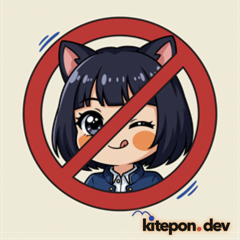
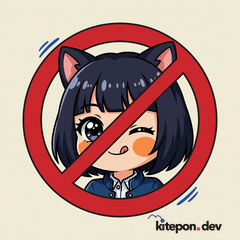
Nope公開リポジトリをv2.0.1へ整備

Changed region(s): [[0.0875, 0.0583, 0.9625, 0.9917]]

diff --git a/src/content-search.js b/src/content-search.js
@@ -26,7 +26,7 @@ const CB_SEARCH = (() => {
   const MASCOT_IMAGE_PATH = 'assets/mascot-blocked.png';
   const MASCOT_HOVER_IMAGE_PATH = 'assets/mascot-blocked-hover.png';
   const MASCOT_DISPLAY_SIZE = 120;
-  const BRAND_URL = 'https://kitepon.dev/';
+  const BRAND_URL = 'https://kitepon.dev/?utm_source=nope&utm_medium=chrome_extension&utm_campaign=nope-brand-link&utm_content=blocked-placeholder';
 
   // kitepon.dev ブランド正典（color-system.md）の適用値。
   const COLOR_ORANGE = '#ef8d32'; // Discovery Orange: 枠・識別色

diff --git a/src/content-name.js b/src/content-name.js
@@ -17,7 +17,7 @@ const CB_NAME = (() => {
   const MASCOT_IMAGE_PATH = 'assets/mascot-blocked.png';
   const MASCOT_HOVER_IMAGE_PATH = 'assets/mascot-blocked-hover.png';
   const MASCOT_DISPLAY_SIZE = 64;
-  const BRAND_URL = 'https://kitepon.dev/';
+  const BRAND_URL = 'https://kitepon.dev/?utm_source=nope&utm_medium=chrome_extension&utm_campaign=nope-brand-link&utm_content=blocked-placeholder';
 
   // kitepon.dev ブランド正典（color-system.md）。content-search.js と同値を維持すること。
   const COLOR_ORANGE = '#ef8d32';

diff --git a/popup/popup.html b/popup/popup.html
@@ -38,7 +38,7 @@
   <button type="button" id="clear-cache">キャッシュクリア</button>
 
   <footer class="cb-footer">
-    <a href="https://kitepon.dev" target="_blank" rel="noopener" class="cb-footer-link">kitepon.dev</a>
+    <a href="https://kitepon.dev/?utm_source=nope&amp;utm_medium=chrome_extension&amp;utm_campaign=nope-brand-link&amp;utm_content=popup-footer" target="_blank" rel="noopener" class="cb-footer-link">kitepon.dev</a>
   </footer>
 
   <script src="../src/storage.js"></script>

diff --git a/README.md b/README.md
@@ -1,18 +1,40 @@
 # Nope — 見たくないもの見せません
 
-指定した発信元やキーワードのコンテンツを、閲覧中の Web ページから非表示にする Chrome 拡張機能（Manifest V3）です。ショップ・出品者・チャンネル・出版社をサイト別にブロックでき、Yahoo ニュースと Yahoo! JAPAN ではキーワードでも絞り込めます。
+![Nopeの猫マスコットとkitepon.dev endorsement](assets/brand/nope-github-hero.png)
 
-## 機能
+## 5秒でわかる
 
-- **発信元をブロック**: 対応ページのショップ・出品者・チャンネル・出版社を登録すると、その発信元のカードを自動的に隠します。AliExpress の商品ページでは「このストアをブロック」ボタンから登録できます。
-- **キーワードをブロック**: Yahoo ニュースと Yahoo! JAPAN の記事タイトルを、登録したキーワードの部分一致で非表示にできます。
-- **その場で反映**: ブロックリストを変更すると、ページを再読み込みせずに再判定します。
-- **表示方法を選択**: ブロックしたカードをプレースホルダーへ置き換えるか、完全に非表示にして詰めるかを選べます。
-- **ポップアップで管理**: ツールバーのアイコンから、サイト別のブロック対象とキーワードの確認・追加・解除、表示方法の切替、解決キャッシュの削除ができます。
+Nopeは、見たくない発信元や言葉を、対応する検索結果・一覧から隠す日本語UIのChrome拡張です。Webサービス側に委ねていた表示を、発信元またはキーワード単位で自分で選び直せます。
 
-## 対応サイト
+## 現在の配布状態
 
-| サイト | 対応ページ | ブロック対象 |
+**v2.0.1は再申請済みで、Chrome Web Storeの審査中です。** Store公開を確認するまでは、installできると見せるリンクを置きません。公開sourceとこのREADMEは今すぐ読めますが、一般利用者向けの主導線はStore公開後に有効化します。
+
+開発者がsourceから確認する場合は、下の「開発・テスト」を使ってください。Load unpackedは開発者向けの確認手順であり、一般利用者向けの導入手順ではありません。
+
+## 30秒の使い方
+
+1. 対応する検索結果・一覧で、見たくない発信元をブロックします。
+2. ブロック済みカードはプレースホルダーに置き換えるか、完全に隠して詰めるかを選べます。
+3. ChromeのツールバーにあるNopeのpopupで、サイト別の発信元、Yahooニュース群のキーワード、表示方法を管理します。
+
+キーワードブロックはYahoo!ニュースとYahoo! JAPANだけに対応します。その他の対応面では発信元単位のブロックです。
+
+## ブロック前後
+
+ブロック前（対象の発信元を解除した表示）:
+
+![AliExpressの検索結果に商品カードが表示されている状態](docs/evidence/r5-smoke-restored.png)
+
+ブロック後（同じ検索面で対象の発信元をNopeのplaceholderへ置換）:
+
+![AliExpressの検索結果で対象の発信元がNopeのplaceholderへ置き換わった状態](docs/evidence/r5-smoke-blocked.png)
+
+発信元の識別ができたカードだけを対象にします。対応サイトのDOM変更や、発信元を解決できないカードは隠しません。
+
+## 対応する7サービス群・8対応面
+
+| サービス群 | 対応面 | ブロック対象 |
 |---|---|---|
 | AliExpress | 検索結果・商品ページ | ストア |
 | 楽天市場 | 検索結果 | 店舗 |
@@ -20,57 +42,29 @@
 | ヤフオク | 検索結果 | 出品者 |
 | Amazon.co.jp | 検索結果 | マーケットプレイス販売者 |
 | YouTube | 検索結果 | チャンネル |
-| Yahoo ニュース / Yahoo! JAPAN | ニュース一覧・トップページのニュースフィード | 出版社・キーワード |
+| Yahooニュース群 | Yahoo!ニュース・Yahoo! JAPAN | 出版社・キーワード |
 
-## スクリーンショット
+NopeはChrome向け、日本語UI、無料の拡張です。すべてのWebサイトやすべての表示面には対応しません。
 
-商品ページのブロックボタン（クリックでブロック、解除も可能）
+## プライバシー・権限・制限
 
-![商品ページのブロックボタン](docs/evidence/t7-item-blocked.png)
+- API権限は`storage`のみです。対応面で機能を実行するため、各サービスを`content_scripts[].matches`へ宣言しています。
+- ブロック対象・表示方法・Yahooニュース群のキーワードは`chrome.storage.sync`へ、発信元解決のcacheは`chrome.storage.local`へ保存します。
+- 開発者のanalytics、tracking、backendへ閲覧情報やブロック設定を送信しません。発信元解決が必要な時だけ、閲覧中の対象サービス自身へ公開識別子を送信します。
+- AliExpressのJSONP応答は同サイトの`MAIN` worldで実行します。このためChrome Web Storeのremote code申告は「はい」です。最終適合は再審査で確定します。
 
-ブラックリスト管理画面（ツールバーアイコンから開く）
-
-![ブラックリスト管理画面](docs/evidence/t6-popup-added.png)
-
-検索結果ページ（ブロック済みストアの商品は表示されません）
-
-![検索結果ページ](docs/evidence/t7-search-hidden.png)
-
-## 導入手順
-
-現時点では Chrome ウェブストアには未公開のため、開発者モードでの読み込み（Load unpacked）で導入します。ストア公開後はここにストアのリンクを追記します。
-
-1. このリポジトリをダウンロードまたは `git clone` する
-2. Chrome で `chrome://extensions` を開く
-3. 右上の「デベロッパーモード」をオンにする
-4. 「パッケージ化されていない拡張機能を読み込む」を選び、リポジトリのルートフォルダ（`manifest.json` があるフォルダ）を指定する
-5. 上記の対応ページを開き、ツールバーの Nope アイコンから設定する
-
-## プライバシー
-
-- **開発者や第三者が運営するサーバーへの送信はありません。** 発信元の識別に追加通信が必要な場合だけ、閲覧中のサービス自身へ公開の商品ID・オークションIDを問い合わせます（AliExpress・ヤフオク・Amazon.co.jp）。
-- **利用状況の収集・送信は行いません。** アクセス解析やトラッキングの類は組み込んでいません。
-- **データの保存先は Chrome の `chrome.storage` のみです。**
-  - ブロックした発信元・キーワードと表示モードは `chrome.storage.sync` に保存され、ログイン中の Google アカウントで同期されます。
-  - 商品・オークションIDから発信元を解決した結果は、通信回数を減らすため `chrome.storage.local` に保存されます（端末内のみ、同期されません）。
-- API 権限は `storage` のみです。対応ページへ機能を注入するため、各サイトを `content_scripts[].matches` に宣言しています。
-
-詳細は [プライバシーポリシー](docs/store/privacy.md) をご覧ください。
-
-## 技術メモ
-
-- サイト固有の DOM と発信元解決を `src/adapters/` に分離し、非表示・再判定・キャッシュを共通エンジンで処理します。
-- AliExpress のストアID解決には内部API（`mtop.aliexpress.pdp.pc.query`、署名付きJSONP）、ヤフオクと Amazon.co.jp では同一サイトの商品詳細ページを使います。
-- 非同期解決は同時2件・間隔300msに制限し、結果をサイト別のキーで端末内へキャッシュします。
-- 無限スクロールや SPA 遷移によるカードの増減には `MutationObserver` で追従します。
+詳しくは[プライバシーポリシー](docs/store/privacy.md)を読んでください。対応面の不具合は[Issue](https://github.com/kitepon/Nope/issues)で報告できます。日本語で受け付け、返信期限や英語supportは約束しません。
 
 ## 開発・テスト
 
-フレームワーク非依存の素の JavaScript です。
-
-```
+```sh
 node --test test/
+node scripts/pack.mjs
 ```
+
+`scripts/pack.mjs`は、manifest、実行時source、popup、icons、マスコット画像だけを含むZIPとstable unpacked面を`dist/`へ再生成します。配布物はChromeのLoad unpackedで開発者が確認できます。
+
+設計・Store申告の詳細は[docs/store](docs/store/)を、対応サイトごとの実装は[src/adapters](src/adapters/)を参照してください。
 
 ## ライセンス
 

diff --git a/assets/brand/README.md b/assets/brand/README.md
@@ -1,0 +1,26 @@
+# Nope brand assets
+
+このフォルダの画像は、Nopeの猫マスコットを製品identity、`kitepon.dev`を従属endorsementとして扱う公開用assetである。Nope identityをmaster logoで置き換えたり、両者を新しい一体logoとして再組版してはならない。
+
+## 正本と再生成
+
+- mascot input: `../mascot-source.png`（2048×2048）
+- wordmark input: RootSitePromotion `artifacts/phase3-logo-raster/kitepon-dev-primary.png`（1200×360、縮小のみ）
+- mascot output: `../mascot-blocked.png` / `../mascot-blocked-hover.png`（240×240）
+- GitHub hero / social preview: `nope-github-hero.png` / `nope-social-preview.png`（1280×640）
+
+2026-08-15時点の入力SHA-256:
+
+```text
+mascot-source.png: 7b697cd76c9e48d902a10492dfd327f40ee715a5854f641b029cf29af794ad39
+kitepon-dev-primary.png: 3e66e774b26a6826698b05a2c412541b43d59ec2a13e51be2c5a08deb198188a
+```
+
+2026-08-15時点の出力SHA-256:
+
+```text
+mascot-blocked.png / mascot-blocked-hover.png: 9ddd4d5311c4a2ed6e2de1ab5d9ffb1ea9a13503d93df9057985d8468d77c727
+nope-github-hero.png / nope-social-preview.png: f32d4c44827304be9c86fb38c5b2086acd5a0ea849059b5da8f15249b9ecec89
+```
+
+各画像は既存のpixel assetを縮小・配置しただけで、生成AIによるUIや利用結果の創作は含まない。GitHub SettingsへのSocial preview uploadはH操作であり、このrepository内の画像作成とは別に扱う。

diff --git a/SECURITY.md b/SECURITY.md
@@ -1,0 +1,7 @@
+# Security policy
+
+Nopeの脆弱性、意図しない権限利用、閲覧情報の送信が疑われる事象は、公開Issueに詳細を書かず、repository ownerへGitHubのprivate vulnerability reportingが利用可能な場合はそちらから報告してください。
+
+private reportingが利用できない場合は、再現に必要な最小限の概要だけをIssueで知らせてください。Cookie、認証トークン、閲覧履歴、ブロック対象、URLのquery、画面全体のスクリーンショットは掲載しないでください。
+
+日本語での報告を受け付けます。返信期限や修正期限は約束しません。
